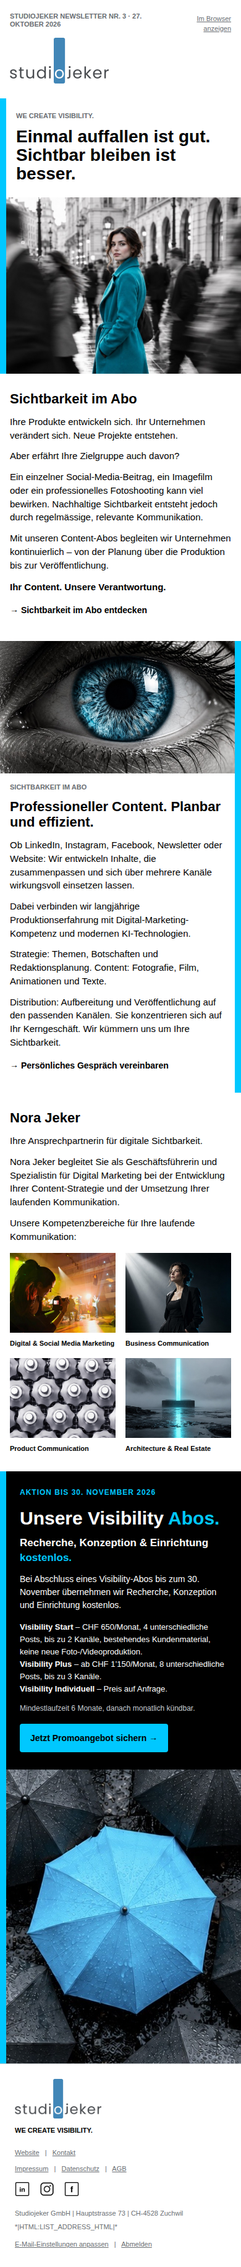
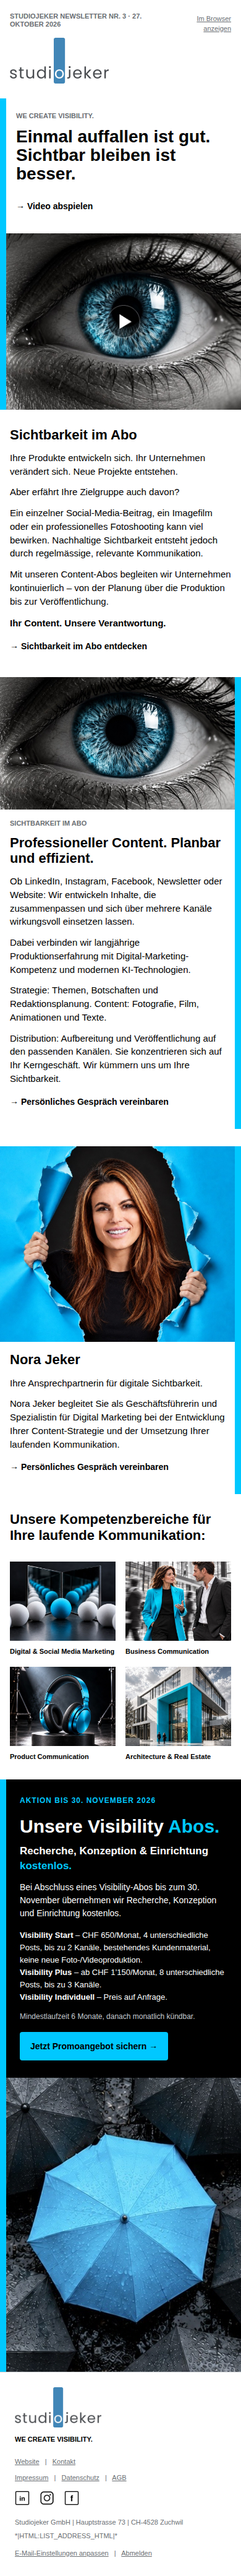
feat(mailchimp): add Nora block, V2 service photos, and hero video link
The approved Visibility promo on main stayed unchanged. Newsletter V3 now uses the V2 Nora portrait as its own contact block, the four V2 area photos, and the V2 play-button hero linked to the live showreel.

diff --git a/mailchimp/studiojeker-newsletter-03-visibility-final.html b/mailchimp/studiojeker-newsletter-03-visibility-final.html
@@ -32,7 +32,7 @@ a:focus-visible {outline:2px solid #000000;outline-offset:3px;}
 <div mc:edit="preheader" style="display:none;max-height:0;max-width:0;overflow:hidden;opacity:0;mso-hide:all;font-size:1px;line-height:1px;">Professioneller Content, regelmässig geplant, produziert und veröffentlicht.</div>
 <center role="article" aria-roledescription="email" lang="de" style="width:100%;background-color:#ffffff;">
 <!--[if mso]><table role="presentation" width="700" align="center" border="0" cellpadding="0" cellspacing="0"><tr><td><![endif]-->
-<table role="presentation" class="sj-container" align="center" width="700" border="0" cellpadding="0" cellspacing="0" style="width:100%;max-width:700px;background-color:#ffffff;"><tr><td class="sj-section" style="padding:20px 20px 24px 20px;background-color:#ffffff;"><table role="presentation" border="0" cellpadding="0" cellspacing="0" width="100%" style="width:100%;border-collapse:collapse;mso-table-lspace:0pt;mso-table-rspace:0pt;" ><tr><td style="font-family:Arial,Helvetica,sans-serif;font-size:11px;line-height:15.95px;color:#6b6f74;"><div mc:edit="meta_left" class="sj-eyebrow" style="font-family:Arial,Helvetica,sans-serif;font-size:11px;line-height:12.65px;font-weight:700;color:#6b6f74;margin:0 0 12px 0;">STUDIOJEKER NEWSLETTER NR. 3 · 27. OKTOBER 2026</div></td><td align="right" style="font-family:Arial,Helvetica,sans-serif;font-size:11px;line-height:15.95px;color:#6b6f74;"><a href="*|ARCHIVE|*" target="_blank" style="color:#6b6f74;text-decoration:underline;">Im Browser anzeigen</a></td></tr><tr><td colspan="2" style="padding:4px 0 0 0;"><a href="https://www.studiojeker.ch/" target="_blank"><img mc:edit="header_logo" src="https://cdn.jsdelivr.net/gh/mjeker99-collab/studiojeker-website@9584d5e/mailchimp/placeholders/logo.png" width="160" height="74" alt="Studiojeker" style="display:block;width:160px;height:74px;border:0;" /></a></td></tr></table></td></tr><tr><td class="sj-bleed" style="padding:0;background-color:#ffffff;"><table role="presentation" border="0" cellpadding="0" cellspacing="0" width="100%" style="width:100%;border-collapse:collapse;mso-table-lspace:0pt;mso-table-rspace:0pt;" ><tr><td class="sj-bar" width="10" bgcolor="#00c8ff" style="width:10px;min-width:10px;max-width:10px;background-color:#00c8ff;font-size:0;line-height:0;">&nbsp;</td><td style="padding:0;"><table role="presentation" border="0" cellpadding="0" cellspacing="0" width="100%" style="width:100%;border-collapse:collapse;mso-table-lspace:0pt;mso-table-rspace:0pt;" ><tr><td class="sj-stack sj-hero-text" width="44%" valign="middle" style="width:44%;padding:22px 20px;vertical-align:middle;"><div mc:edit="hero_eyebrow" class="sj-eyebrow" style="font-family:Arial,Helvetica,sans-serif;font-size:11px;line-height:12.65px;font-weight:700;color:#6b6f74;margin:0 0 12px 0;">WE CREATE VISIBILITY.</div><h1 class="sj-hero-heading" mc:edit="hero_headline" style="font-family:Arial,Helvetica,sans-serif;font-size:32px;line-height:34.56px;font-weight:700;margin:0;color:#000000;">Einmal auffallen ist gut. Sichtbar bleiben ist besser.</h1></td><td class="sj-stack sj-hero-photo" width="56%" valign="middle" style="width:56%;padding:0;vertical-align:middle;"><a href="https://www.studiojeker.ch/content-abo/" target="_blank" rel="noopener noreferrer" aria-label="Sichtbarkeit im Abo bei Studiojeker entdecken" style="display:block;width:100%;border:0;text-decoration:none;font-size:0;line-height:0;"><img class="sj-hero-desktop" mc:edit="hero_image_desktop" src="https://raw.githubusercontent.com/mjeker99-collab/studiojeker-website/3dccfc2291b493b64b9fb19d24feebc08e6b3869/mailchimp/newsletter03/assets/hero-desktop.jpg" width="386" height="290" alt="Frau im blauen Mantel – Sichtbarkeit in Bewegung" style="display:block;width:100%;height:auto;border:0;outline:none;-ms-interpolation-mode:bicubic;" /><!--[if !mso]><!--><img class="sj-hero-mobile" mc:edit="hero_image_mobile" src="https://raw.githubusercontent.com/mjeker99-collab/studiojeker-website/3dccfc2291b493b64b9fb19d24feebc08e6b3869/mailchimp/newsletter03/assets/hero-mobile.jpg" width="386" height="290" alt="Frau im blauen Mantel – Sichtbarkeit in Bewegung" style="display:none;mso-hide:all;width:100%;height:auto;border:0;outline:none;-ms-interpolation-mode:bicubic;" /><!--<![endif]--></a></td></tr></table></td></tr></table></td></tr><tr><td class="sj-section" style="padding:28px 20px 0 20px;background-color:#ffffff;"><h2 class="sj-heading" mc:edit="intro_headline" style="font-family:Arial,Helvetica,sans-serif;font-size:24px;line-height:27.6px;font-weight:700;color:#000000;margin:0 0 14px 0;">Sichtbarkeit im Abo</h2><div mc:edit="intro_body" class="sj-copy" style="font-family:Arial,Helvetica,sans-serif;font-size:15px;line-height:21.75px;font-weight:400;color:#000000;"><p style="font-family:Arial,Helvetica,sans-serif;font-size:15px;line-height:21.75px;font-weight:400;color:#000000;margin:0 0 12px 0;">Ihre Produkte entwickeln sich. Ihr Unternehmen verändert sich. Neue Projekte entstehen.</p><p style="font-family:Arial,Helvetica,sans-serif;font-size:15px;line-height:21.75px;font-weight:400;color:#000000;margin:0 0 12px 0;">Aber erfährt Ihre Zielgruppe auch davon?</p><p style="font-family:Arial,Helvetica,sans-serif;font-size:15px;line-height:21.75px;font-weight:400;color:#000000;margin:0 0 12px 0;">Ein einzelner Social-Media-Beitrag, ein Imagefilm oder ein professionelles Fotoshooting kann viel bewirken. Nachhaltige Sichtbarkeit entsteht jedoch durch regelmässige, relevante Kommunikation.</p><p style="font-family:Arial,Helvetica,sans-serif;font-size:15px;line-height:21.75px;font-weight:400;color:#000000;margin:0 0 0px 0;">Mit unseren Content-Abos begleiten wir Unternehmen kontinuierlich – von der Planung über die Produktion bis zur Veröffentlichung.</p></div><p mc:edit="intro_claim" style="font-family:Arial,Helvetica,sans-serif;font-size:15px;line-height:21.75px;font-weight:400;color:#000000;font-weight:700;margin:14px 0 0 0;">Ihr Content. Unsere Verantwortung.</p><div mc:edit="intro_cta" style="font-family:Arial,Helvetica,sans-serif;font-size:15px;line-height:21.75px;font-weight:400;color:#000000;margin:4px 0 0 0;"><a class="sj-cta" href="https://www.studiojeker.ch/content-abo/" target="_blank" style="font-family:Arial,Helvetica,sans-serif;font-size:14px;line-height:20px;font-weight:700;color:#000000;text-decoration:none;display:inline-block;padding:12px 0;">→ Sichtbarkeit im Abo entdecken</a></div></td></tr><tr><td class="sj-bleed" style="padding:28px 0 0 0;background-color:#ffffff;"><table role="presentation" border="0" cellpadding="0" cellspacing="0" width="100%" style="width:100%;border-collapse:collapse;mso-table-lspace:0pt;mso-table-rspace:0pt;" ><tr><td class="sj-ai-inner" style="padding:22px 20px;"><table role="presentation" border="0" cellpadding="0" cellspacing="0" width="100%" style="width:100%;border-collapse:collapse;mso-table-lspace:0pt;mso-table-rspace:0pt;" ><tr><td class="sj-stack sj-ai-photo" width="48%" valign="top" style="width:48%;vertical-align:top;padding:0 18px 0 0;"><img mc:edit="ai_image" src="https://raw.githubusercontent.com/mjeker99-collab/studiojeker-website/3dccfc2291b493b64b9fb19d24feebc08e6b3869/mailchimp/newsletter03/assets/content-eye.jpg" width="300" height="168" alt="Augenmotiv – Fokus auf kontinuierliche Sichtbarkeit" style="display:block;width:100%;height:auto;border:0;outline:none;-ms-interpolation-mode:bicubic;" /></td><td class="sj-stack sj-ai-text" width="52%" valign="top" style="width:52%;vertical-align:top;padding:0;"><div mc:edit="ai_eyebrow" class="sj-eyebrow" style="font-family:Arial,Helvetica,sans-serif;font-size:11px;line-height:12.65px;font-weight:700;color:#6b6f74;margin:0 0 12px 0;">SICHTBARKEIT IM ABO</div><h2 class="sj-heading" mc:edit="ai_headline" style="font-family:Arial,Helvetica,sans-serif;font-size:24px;line-height:27.6px;font-weight:700;color:#000000;margin:0 0 14px 0;">Professioneller Content. Planbar und effizient.</h2><div class="sj-copy" mc:edit="ai_body_start" style="font-family:Arial,Helvetica,sans-serif;font-size:15px;line-height:21.75px;font-weight:400;color:#000000;"><p style="font-family:Arial,Helvetica,sans-serif;font-size:15px;line-height:21.75px;font-weight:400;color:#000000;margin:0 0 0px 0;">Ob LinkedIn, Instagram, Facebook, Newsletter oder Website: Wir entwickeln Inhalte, die zusammenpassen und sich über mehrere Kanäle wirkungsvoll einsetzen lassen.</p></div></td></tr></table><div class="sj-ai-continuation sj-copy" mc:edit="ai_body_continuation" style="font-family:Arial,Helvetica,sans-serif;font-size:15px;line-height:21.75px;font-weight:400;color:#000000;padding-top:14px;"><p style="font-family:Arial,Helvetica,sans-serif;font-size:15px;line-height:21.75px;font-weight:400;color:#000000;margin:0 0 12px 0;">Dabei verbinden wir langjährige Produktionserfahrung mit Digital-Marketing-Kompetenz und modernen KI-Technologien.</p><p style="font-family:Arial,Helvetica,sans-serif;font-size:15px;line-height:21.75px;font-weight:400;color:#000000;margin:0 0 12px 0;">Strategie: Themen, Botschaften und Redaktionsplanung. Content: Fotografie, Film, Animationen und Texte.</p><p style="font-family:Arial,Helvetica,sans-serif;font-size:15px;line-height:21.75px;font-weight:400;color:#000000;margin:0 0 0px 0;">Distribution: Aufbereitung und Veröffentlichung auf den passenden Kanälen. Sie konzentrieren sich auf Ihr Kerngeschäft. Wir kümmern uns um Ihre Sichtbarkeit.</p></div><div mc:edit="ai_cta" style="font-family:Arial,Helvetica,sans-serif;font-size:15px;line-height:21.75px;font-weight:400;color:#000000;margin:4px 0 0 0;"><a class="sj-cta" href="https://www.studiojeker.ch/contact/" target="_blank" style="font-family:Arial,Helvetica,sans-serif;font-size:14px;line-height:20px;font-weight:700;color:#000000;text-decoration:none;display:inline-block;padding:12px 0;">→ Persönliches Gespräch vereinbaren</a></div></td><td class="sj-bar" width="10" bgcolor="#00c8ff" style="width:10px;min-width:10px;max-width:10px;background-color:#00c8ff;font-size:0;line-height:0;">&nbsp;</td></tr></table></td></tr><tr><td class="sj-section" style="padding:28px 20px 0 20px;background-color:#ffffff;"><h2 class="sj-heading" mc:edit="services_headline" style="font-family:Arial,Helvetica,sans-serif;font-size:24px;line-height:27.6px;font-weight:700;color:#000000;margin:0 0 14px 0;">Nora Jeker</h2><div class="sj-copy" mc:edit="services_body" style="font-family:Arial,Helvetica,sans-serif;font-size:15px;line-height:21.75px;font-weight:400;color:#000000;"><p style="font-family:Arial,Helvetica,sans-serif;font-size:15px;line-height:21.75px;font-weight:400;color:#000000;margin:0 0 12px 0;">Ihre Ansprechpartnerin für digitale Sichtbarkeit.</p><p style="font-family:Arial,Helvetica,sans-serif;font-size:15px;line-height:21.75px;font-weight:400;color:#000000;margin:0 0 12px 0;">Nora Jeker begleitet Sie als Geschäftsführerin und Spezialistin für Digital Marketing bei der Entwicklung Ihrer Content-Strategie und der Umsetzung Ihrer laufenden Kommunikation.</p><p style="font-family:Arial,Helvetica,sans-serif;font-size:15px;line-height:21.75px;font-weight:400;color:#000000;margin:0 0 0px 0;">Unsere Kompetenzbereiche für Ihre laufende Kommunikation:</p></div></td></tr><tr><td class="sj-cards-section" style="padding:16px 12px 0 12px;background-color:#ffffff;"><table role="presentation" border="0" cellpadding="0" cellspacing="0" width="100%" style="width:100%;border-collapse:collapse;mso-table-lspace:0pt;mso-table-rspace:0pt;" class="sj-grid"><tr><td class="sj-pair" width="50%" valign="top" style="width:50%;vertical-align:top;"><table role="presentation" border="0" cellpadding="0" cellspacing="0" width="100%" style="width:100%;border-collapse:collapse;mso-table-lspace:0pt;mso-table-rspace:0pt;" ><tr><td class="sj-card" width="50%" valign="top" style="width:50%;padding:0 8px;vertical-align:top;"><table role="presentation" border="0" cellpadding="0" cellspacing="0" width="100%" style="width:100%;border-collapse:collapse;mso-table-lspace:0pt;mso-table-rspace:0pt;" ><tr><td><a href="https://www.studiojeker.ch/services/digital-marketing/" target="_blank"><img mc:edit="service_digital_image" src="https://raw.githubusercontent.com/mjeker99-collab/studiojeker-website/gh-pages/v7-corrections/assets/digital-concert-photographer.jpg" width="151" height="113" alt="Digital &amp; Social Media Marketing" style="display:block;width:100%;height:auto;border:0;outline:none;-ms-interpolation-mode:bicubic;" /></a></td></tr><tr><td class="sj-card-caption" mc:edit="service_digital_title" style="font-family:Arial,Helvetica,sans-serif;font-size:11px;line-height:15.95px;font-weight:700;padding:10px 0 0 0;color:#000000;"><a href="https://www.studiojeker.ch/services/digital-marketing/" target="_blank" style="color:#000000;text-decoration:none;">Digital &amp; Social Media Marketing</a></td></tr></table></td><td class="sj-card" width="50%" valign="top" style="width:50%;padding:0 8px;vertical-align:top;"><table role="presentation" border="0" cellpadding="0" cellspacing="0" width="100%" style="width:100%;border-collapse:collapse;mso-table-lspace:0pt;mso-table-rspace:0pt;" ><tr><td><a href="https://www.studiojeker.ch/services/business-communication/" target="_blank"><img mc:edit="service_business_image" src="https://raw.githubusercontent.com/mjeker99-collab/studiojeker-website/3dccfc2291b493b64b9fb19d24feebc08e6b3869/mailchimp/newsletter03/assets/service-business.jpg" width="151" height="113" alt="Business Communication – Frau im schwarzen Anzug" style="display:block;width:100%;height:auto;border:0;outline:none;-ms-interpolation-mode:bicubic;" /></a></td></tr><tr><td class="sj-card-caption" mc:edit="service_business_title" style="font-family:Arial,Helvetica,sans-serif;font-size:11px;line-height:15.95px;font-weight:700;padding:10px 0 0 0;color:#000000;"><a href="https://www.studiojeker.ch/services/business-communication/" target="_blank" style="color:#000000;text-decoration:none;">Business Communication</a></td></tr></table></td></tr></table></td><td class="sj-pair" width="50%" valign="top" style="width:50%;vertical-align:top;"><table role="presentation" border="0" cellpadding="0" cellspacing="0" width="100%" style="width:100%;border-collapse:collapse;mso-table-lspace:0pt;mso-table-rspace:0pt;" ><tr><td class="sj-card" width="50%" valign="top" style="width:50%;padding:0 8px;vertical-align:top;"><table role="presentation" border="0" cellpadding="0" cellspacing="0" width="100%" style="width:100%;border-collapse:collapse;mso-table-lspace:0pt;mso-table-rspace:0pt;" ><tr><td><a href="https://www.studiojeker.ch/services/product-communication/" target="_blank"><img mc:edit="service_product_image" src="https://raw.githubusercontent.com/mjeker99-collab/studiojeker-website/92009bd630e7242e455ce2de762e9ca87a8d0b97/mailchimp/assets/service-product.jpg" width="151" height="113" alt="Studiojeker Produktfotografie – Metallbauteile" style="display:block;width:100%;height:auto;border:0;outline:none;-ms-interpolation-mode:bicubic;" /></a></td></tr><tr><td class="sj-card-caption" mc:edit="service_product_title" style="font-family:Arial,Helvetica,sans-serif;font-size:11px;line-height:15.95px;font-weight:700;padding:10px 0 0 0;color:#000000;"><a href="https://www.studiojeker.ch/services/product-communication/" target="_blank" style="color:#000000;text-decoration:none;">Product Communication</a></td></tr></table></td><td class="sj-card" width="50%" valign="top" style="width:50%;padding:0 8px;vertical-align:top;"><table role="presentation" border="0" cellpadding="0" cellspacing="0" width="100%" style="width:100%;border-collapse:collapse;mso-table-lspace:0pt;mso-table-rspace:0pt;" ><tr><td><a href="https://www.studiojeker.ch/services/architecture/" target="_blank"><img mc:edit="service_architecture_image" src="https://raw.githubusercontent.com/mjeker99-collab/studiojeker-website/3dccfc2291b493b64b9fb19d24feebc08e6b3869/mailchimp/newsletter03/assets/service-architecture.jpg" width="151" height="113" alt="Visuelles Cyan-Motiv in einer Berglandschaft" style="display:block;width:100%;height:auto;border:0;outline:none;-ms-interpolation-mode:bicubic;" /></a></td></tr><tr><td class="sj-card-caption" mc:edit="service_architecture_title" style="font-family:Arial,Helvetica,sans-serif;font-size:11px;line-height:15.95px;font-weight:700;padding:10px 0 0 0;color:#000000;"><a href="https://www.studiojeker.ch/services/architecture/" target="_blank" style="color:#000000;text-decoration:none;">Architecture &amp; Real Estate</a></td></tr></table></td></tr></table></td></tr></table></td></tr><tr><td style="padding:28px 0 0 0;background-color:#ffffff;">
+<table role="presentation" class="sj-container" align="center" width="700" border="0" cellpadding="0" cellspacing="0" style="width:100%;max-width:700px;background-color:#ffffff;"><tr><td class="sj-section" style="padding:20px 20px 24px 20px;background-color:#ffffff;"><table role="presentation" border="0" cellpadding="0" cellspacing="0" width="100%" style="width:100%;border-collapse:collapse;mso-table-lspace:0pt;mso-table-rspace:0pt;" ><tr><td style="font-family:Arial,Helvetica,sans-serif;font-size:11px;line-height:15.95px;color:#6b6f74;"><div mc:edit="meta_left" class="sj-eyebrow" style="font-family:Arial,Helvetica,sans-serif;font-size:11px;line-height:12.65px;font-weight:700;color:#6b6f74;margin:0 0 12px 0;">STUDIOJEKER NEWSLETTER NR. 3 · 27. OKTOBER 2026</div></td><td align="right" style="font-family:Arial,Helvetica,sans-serif;font-size:11px;line-height:15.95px;color:#6b6f74;"><a href="*|ARCHIVE|*" target="_blank" style="color:#6b6f74;text-decoration:underline;">Im Browser anzeigen</a></td></tr><tr><td colspan="2" style="padding:4px 0 0 0;"><a href="https://www.studiojeker.ch/" target="_blank"><img mc:edit="header_logo" src="https://cdn.jsdelivr.net/gh/mjeker99-collab/studiojeker-website@9584d5e/mailchimp/placeholders/logo.png" width="160" height="74" alt="Studiojeker" style="display:block;width:160px;height:74px;border:0;" /></a></td></tr></table></td></tr><tr><td class="sj-bleed" style="padding:0;background-color:#ffffff;"><table role="presentation" border="0" cellpadding="0" cellspacing="0" width="100%" style="width:100%;border-collapse:collapse;mso-table-lspace:0pt;mso-table-rspace:0pt;" ><tr><td class="sj-bar" width="10" bgcolor="#00c8ff" style="width:10px;min-width:10px;max-width:10px;background-color:#00c8ff;font-size:0;line-height:0;">&nbsp;</td><td style="padding:0;"><table role="presentation" border="0" cellpadding="0" cellspacing="0" width="100%" style="width:100%;border-collapse:collapse;mso-table-lspace:0pt;mso-table-rspace:0pt;" ><tr><td class="sj-stack sj-hero-text" width="44%" valign="middle" style="width:44%;padding:22px 20px;vertical-align:middle;"><div mc:edit="hero_eyebrow" class="sj-eyebrow" style="font-family:Arial,Helvetica,sans-serif;font-size:11px;line-height:12.65px;font-weight:700;color:#6b6f74;margin:0 0 12px 0;">WE CREATE VISIBILITY.</div><h1 class="sj-hero-heading" mc:edit="hero_headline" style="font-family:Arial,Helvetica,sans-serif;font-size:32px;line-height:34.56px;font-weight:700;margin:0;color:#000000;">Einmal auffallen ist gut. Sichtbar bleiben ist besser.</h1><div mc:edit="hero_video_cta" style="margin:14px 0 0 0;"><a class="sj-cta" href="https://www.studiojeker.ch/#home-showreel-title" target="_blank" style="font-family:Arial,Helvetica,sans-serif;font-size:14px;line-height:20px;font-weight:700;color:#000000;text-decoration:none;display:inline-block;padding:12px 0;">→ Video abspielen</a></div></td><td class="sj-stack sj-hero-photo" width="56%" valign="middle" style="width:56%;padding:0;vertical-align:middle;"><a href="https://www.studiojeker.ch/#home-showreel-title" target="_blank" rel="noopener noreferrer" aria-label="Studiojeker Showreel auf der Startseite ansehen" style="display:block;width:100%;border:0;text-decoration:none;font-size:0;line-height:0;"><img class="sj-hero-desktop" mc:edit="hero_image_desktop" src="https://raw.githubusercontent.com/mjeker99-collab/studiojeker-website/476a19450a7ae47b1c067d1faed3b8b8eb7c2a48/mailchimp/visibility-update/assets/hero-desktop.jpg" width="386" height="290" alt="Studiojeker Showreel – Auge" style="display:block;width:100%;height:auto;border:0;outline:none;-ms-interpolation-mode:bicubic;" /><!--[if !mso]><!--><img class="sj-hero-mobile" mc:edit="hero_image_mobile" src="https://raw.githubusercontent.com/mjeker99-collab/studiojeker-website/476a19450a7ae47b1c067d1faed3b8b8eb7c2a48/mailchimp/visibility-update/assets/hero-mobile.jpg" width="386" height="290" alt="Studiojeker Showreel – Auge" style="display:none;mso-hide:all;width:100%;height:auto;border:0;outline:none;-ms-interpolation-mode:bicubic;" /><!--<![endif]--></a></td></tr></table></td></tr></table></td></tr><tr><td class="sj-section" style="padding:28px 20px 0 20px;background-color:#ffffff;"><h2 class="sj-heading" mc:edit="intro_headline" style="font-family:Arial,Helvetica,sans-serif;font-size:24px;line-height:27.6px;font-weight:700;color:#000000;margin:0 0 14px 0;">Sichtbarkeit im Abo</h2><div mc:edit="intro_body" class="sj-copy" style="font-family:Arial,Helvetica,sans-serif;font-size:15px;line-height:21.75px;font-weight:400;color:#000000;"><p style="font-family:Arial,Helvetica,sans-serif;font-size:15px;line-height:21.75px;font-weight:400;color:#000000;margin:0 0 12px 0;">Ihre Produkte entwickeln sich. Ihr Unternehmen verändert sich. Neue Projekte entstehen.</p><p style="font-family:Arial,Helvetica,sans-serif;font-size:15px;line-height:21.75px;font-weight:400;color:#000000;margin:0 0 12px 0;">Aber erfährt Ihre Zielgruppe auch davon?</p><p style="font-family:Arial,Helvetica,sans-serif;font-size:15px;line-height:21.75px;font-weight:400;color:#000000;margin:0 0 12px 0;">Ein einzelner Social-Media-Beitrag, ein Imagefilm oder ein professionelles Fotoshooting kann viel bewirken. Nachhaltige Sichtbarkeit entsteht jedoch durch regelmässige, relevante Kommunikation.</p><p style="font-family:Arial,Helvetica,sans-serif;font-size:15px;line-height:21.75px;font-weight:400;color:#000000;margin:0 0 0px 0;">Mit unseren Content-Abos begleiten wir Unternehmen kontinuierlich – von der Planung über die Produktion bis zur Veröffentlichung.</p></div><p mc:edit="intro_claim" style="font-family:Arial,Helvetica,sans-serif;font-size:15px;line-height:21.75px;font-weight:400;color:#000000;font-weight:700;margin:14px 0 0 0;">Ihr Content. Unsere Verantwortung.</p><div mc:edit="intro_cta" style="font-family:Arial,Helvetica,sans-serif;font-size:15px;line-height:21.75px;font-weight:400;color:#000000;margin:4px 0 0 0;"><a class="sj-cta" href="https://www.studiojeker.ch/content-abo/" target="_blank" style="font-family:Arial,Helvetica,sans-serif;font-size:14px;line-height:20px;font-weight:700;color:#000000;text-decoration:none;display:inline-block;padding:12px 0;">→ Sichtbarkeit im Abo entdecken</a></div></td></tr><tr><td class="sj-bleed" style="padding:28px 0 0 0;background-color:#ffffff;"><table role="presentation" border="0" cellpadding="0" cellspacing="0" width="100%" style="width:100%;border-collapse:collapse;mso-table-lspace:0pt;mso-table-rspace:0pt;" ><tr><td class="sj-ai-inner" style="padding:22px 20px;"><table role="presentation" border="0" cellpadding="0" cellspacing="0" width="100%" style="width:100%;border-collapse:collapse;mso-table-lspace:0pt;mso-table-rspace:0pt;" ><tr><td class="sj-stack sj-ai-photo" width="48%" valign="top" style="width:48%;vertical-align:top;padding:0 18px 0 0;"><img mc:edit="ai_image" src="https://raw.githubusercontent.com/mjeker99-collab/studiojeker-website/3dccfc2291b493b64b9fb19d24feebc08e6b3869/mailchimp/newsletter03/assets/content-eye.jpg" width="300" height="168" alt="Augenmotiv – Fokus auf kontinuierliche Sichtbarkeit" style="display:block;width:100%;height:auto;border:0;outline:none;-ms-interpolation-mode:bicubic;" /></td><td class="sj-stack sj-ai-text" width="52%" valign="top" style="width:52%;vertical-align:top;padding:0;"><div mc:edit="ai_eyebrow" class="sj-eyebrow" style="font-family:Arial,Helvetica,sans-serif;font-size:11px;line-height:12.65px;font-weight:700;color:#6b6f74;margin:0 0 12px 0;">SICHTBARKEIT IM ABO</div><h2 class="sj-heading" mc:edit="ai_headline" style="font-family:Arial,Helvetica,sans-serif;font-size:24px;line-height:27.6px;font-weight:700;color:#000000;margin:0 0 14px 0;">Professioneller Content. Planbar und effizient.</h2><div class="sj-copy" mc:edit="ai_body_start" style="font-family:Arial,Helvetica,sans-serif;font-size:15px;line-height:21.75px;font-weight:400;color:#000000;"><p style="font-family:Arial,Helvetica,sans-serif;font-size:15px;line-height:21.75px;font-weight:400;color:#000000;margin:0 0 0px 0;">Ob LinkedIn, Instagram, Facebook, Newsletter oder Website: Wir entwickeln Inhalte, die zusammenpassen und sich über mehrere Kanäle wirkungsvoll einsetzen lassen.</p></div></td></tr></table><div class="sj-ai-continuation sj-copy" mc:edit="ai_body_continuation" style="font-family:Arial,Helvetica,sans-serif;font-size:15px;line-height:21.75px;font-weight:400;color:#000000;padding-top:14px;"><p style="font-family:Arial,Helvetica,sans-serif;font-size:15px;line-height:21.75px;font-weight:400;color:#000000;margin:0 0 12px 0;">Dabei verbinden wir langjährige Produktionserfahrung mit Digital-Marketing-Kompetenz und modernen KI-Technologien.</p><p style="font-family:Arial,Helvetica,sans-serif;font-size:15px;line-height:21.75px;font-weight:400;color:#000000;margin:0 0 12px 0;">Strategie: Themen, Botschaften und Redaktionsplanung. Content: Fotografie, Film, Animationen und Texte.</p><p style="font-family:Arial,Helvetica,sans-serif;font-size:15px;line-height:21.75px;font-weight:400;color:#000000;margin:0 0 0px 0;">Distribution: Aufbereitung und Veröffentlichung auf den passenden Kanälen. Sie konzentrieren sich auf Ihr Kerngeschäft. Wir kümmern uns um Ihre Sichtbarkeit.</p></div><div mc:edit="ai_cta" style="font-family:Arial,Helvetica,sans-serif;font-size:15px;line-height:21.75px;font-weight:400;color:#000000;margin:4px 0 0 0;"><a class="sj-cta" href="https://www.studiojeker.ch/contact/" target="_blank" style="font-family:Arial,Helvetica,sans-serif;font-size:14px;line-height:20px;font-weight:700;color:#000000;text-decoration:none;display:inline-block;padding:12px 0;">→ Persönliches Gespräch vereinbaren</a></div></td><td class="sj-bar" width="10" bgcolor="#00c8ff" style="width:10px;min-width:10px;max-width:10px;background-color:#00c8ff;font-size:0;line-height:0;">&nbsp;</td></tr></table></td></tr><tr><td class="sj-bleed" style="padding:28px 0 0 0;background-color:#ffffff;"><table role="presentation" border="0" cellpadding="0" cellspacing="0" width="100%" style="width:100%;border-collapse:collapse;mso-table-lspace:0pt;mso-table-rspace:0pt;" ><tr><td class="sj-ai-inner" style="padding:22px 20px;"><table role="presentation" border="0" cellpadding="0" cellspacing="0" width="100%" style="width:100%;border-collapse:collapse;mso-table-lspace:0pt;mso-table-rspace:0pt;" ><tr><td class="sj-stack sj-ai-photo" width="48%" valign="top" style="width:48%;vertical-align:top;padding:0 18px 0 0;"><img mc:edit="contact_image" src="https://raw.githubusercontent.com/mjeker99-collab/studiojeker-website/7361ce0ff0f8d302c29c23ac7cc3ef5a15a6fbc4/mailchimp/visibility-update/assets/nora-cyan-tall.jpg" width="300" height="250" alt="Nora Jeker vor Cyan-Papier" style="display:block;width:100%;height:auto;border:0;outline:none;-ms-interpolation-mode:bicubic;" /></td><td class="sj-stack sj-ai-text" width="52%" valign="top" style="width:52%;vertical-align:top;padding:0;"><h2 class="sj-heading" mc:edit="contact_headline" style="font-family:Arial,Helvetica,sans-serif;font-size:24px;line-height:27.6px;font-weight:700;color:#000000;margin:0 0 14px 0;">Nora Jeker</h2><div class="sj-copy" mc:edit="contact_body" style="font-family:Arial,Helvetica,sans-serif;font-size:15px;line-height:21.75px;font-weight:400;color:#000000;"><p style="font-family:Arial,Helvetica,sans-serif;font-size:15px;line-height:21.75px;font-weight:400;color:#000000;margin:0 0 12px 0;">Ihre Ansprechpartnerin für digitale Sichtbarkeit.</p><p style="font-family:Arial,Helvetica,sans-serif;font-size:15px;line-height:21.75px;font-weight:400;color:#000000;margin:0 0 0px 0;">Nora Jeker begleitet Sie als Geschäftsführerin und Spezialistin für Digital Marketing bei der Entwicklung Ihrer Content-Strategie und der Umsetzung Ihrer laufenden Kommunikation.</p></div><div mc:edit="contact_cta" style="font-family:Arial,Helvetica,sans-serif;font-size:15px;line-height:21.75px;font-weight:400;color:#000000;margin:4px 0 0 0;"><a class="sj-cta" href="https://www.studiojeker.ch/contact/" target="_blank" style="font-family:Arial,Helvetica,sans-serif;font-size:14px;line-height:20px;font-weight:700;color:#000000;text-decoration:none;display:inline-block;padding:12px 0;">→ Persönliches Gespräch vereinbaren</a></div></td></tr></table></td><td class="sj-bar" width="10" bgcolor="#00c8ff" style="width:10px;min-width:10px;max-width:10px;background-color:#00c8ff;font-size:0;line-height:0;">&nbsp;</td></tr></table></td></tr><tr><td class="sj-section" style="padding:28px 20px 0 20px;background-color:#ffffff;"><h2 class="sj-heading" mc:edit="services_headline" style="font-family:Arial,Helvetica,sans-serif;font-size:24px;line-height:27.6px;font-weight:700;color:#000000;margin:0 0 14px 0;">Unsere Kompetenzbereiche für Ihre laufende Kommunikation:</h2><div class="sj-copy" mc:edit="services_body" style="font-family:Arial,Helvetica,sans-serif;font-size:15px;line-height:21.75px;font-weight:400;color:#000000;"></div></td></tr><tr><td class="sj-cards-section" style="padding:16px 12px 0 12px;background-color:#ffffff;"><table role="presentation" border="0" cellpadding="0" cellspacing="0" width="100%" style="width:100%;border-collapse:collapse;mso-table-lspace:0pt;mso-table-rspace:0pt;" class="sj-grid"><tr><td class="sj-pair" width="50%" valign="top" style="width:50%;vertical-align:top;"><table role="presentation" border="0" cellpadding="0" cellspacing="0" width="100%" style="width:100%;border-collapse:collapse;mso-table-lspace:0pt;mso-table-rspace:0pt;" ><tr><td class="sj-card" width="50%" valign="top" style="width:50%;padding:0 8px;vertical-align:top;"><table role="presentation" border="0" cellpadding="0" cellspacing="0" width="100%" style="width:100%;border-collapse:collapse;mso-table-lspace:0pt;mso-table-rspace:0pt;" ><tr><td><a href="https://www.studiojeker.ch/services/digital-marketing/" target="_blank"><img mc:edit="service_digital_image" src="https://raw.githubusercontent.com/mjeker99-collab/studiojeker-website/476a19450a7ae47b1c067d1faed3b8b8eb7c2a48/mailchimp/visibility-update/assets/digital.jpg" width="151" height="113" alt="Blaue und weisse Kugeln – Content und Digital Marketing" style="display:block;width:100%;height:auto;border:0;outline:none;-ms-interpolation-mode:bicubic;" /></a></td></tr><tr><td class="sj-card-caption" mc:edit="service_digital_title" style="font-family:Arial,Helvetica,sans-serif;font-size:11px;line-height:15.95px;font-weight:700;padding:10px 0 0 0;color:#000000;"><a href="https://www.studiojeker.ch/services/digital-marketing/" target="_blank" style="color:#000000;text-decoration:none;">Digital &amp; Social Media Marketing</a></td></tr></table></td><td class="sj-card" width="50%" valign="top" style="width:50%;padding:0 8px;vertical-align:top;"><table role="presentation" border="0" cellpadding="0" cellspacing="0" width="100%" style="width:100%;border-collapse:collapse;mso-table-lspace:0pt;mso-table-rspace:0pt;" ><tr><td><a href="https://www.studiojeker.ch/services/business-communication/" target="_blank"><img mc:edit="service_business_image" src="https://raw.githubusercontent.com/mjeker99-collab/studiojeker-website/476a19450a7ae47b1c067d1faed3b8b8eb7c2a48/mailchimp/visibility-update/assets/business.jpg" width="151" height="113" alt="Business-Szene mit Unternehmerin im blauen Blazer" style="display:block;width:100%;height:auto;border:0;outline:none;-ms-interpolation-mode:bicubic;" /></a></td></tr><tr><td class="sj-card-caption" mc:edit="service_business_title" style="font-family:Arial,Helvetica,sans-serif;font-size:11px;line-height:15.95px;font-weight:700;padding:10px 0 0 0;color:#000000;"><a href="https://www.studiojeker.ch/services/business-communication/" target="_blank" style="color:#000000;text-decoration:none;">Business Communication</a></td></tr></table></td></tr></table></td><td class="sj-pair" width="50%" valign="top" style="width:50%;vertical-align:top;"><table role="presentation" border="0" cellpadding="0" cellspacing="0" width="100%" style="width:100%;border-collapse:collapse;mso-table-lspace:0pt;mso-table-rspace:0pt;" ><tr><td class="sj-card" width="50%" valign="top" style="width:50%;padding:0 8px;vertical-align:top;"><table role="presentation" border="0" cellpadding="0" cellspacing="0" width="100%" style="width:100%;border-collapse:collapse;mso-table-lspace:0pt;mso-table-rspace:0pt;" ><tr><td><a href="https://www.studiojeker.ch/services/product-communication/" target="_blank"><img mc:edit="service_product_image" src="https://raw.githubusercontent.com/mjeker99-collab/studiojeker-website/476a19450a7ae47b1c067d1faed3b8b8eb7c2a48/mailchimp/visibility-update/assets/product.jpg" width="151" height="113" alt="Blaue Kopfhörer – Product Communication" style="display:block;width:100%;height:auto;border:0;outline:none;-ms-interpolation-mode:bicubic;" /></a></td></tr><tr><td class="sj-card-caption" mc:edit="service_product_title" style="font-family:Arial,Helvetica,sans-serif;font-size:11px;line-height:15.95px;font-weight:700;padding:10px 0 0 0;color:#000000;"><a href="https://www.studiojeker.ch/services/product-communication/" target="_blank" style="color:#000000;text-decoration:none;">Product Communication</a></td></tr></table></td><td class="sj-card" width="50%" valign="top" style="width:50%;padding:0 8px;vertical-align:top;"><table role="presentation" border="0" cellpadding="0" cellspacing="0" width="100%" style="width:100%;border-collapse:collapse;mso-table-lspace:0pt;mso-table-rspace:0pt;" ><tr><td><a href="https://www.studiojeker.ch/services/architecture/" target="_blank"><img mc:edit="service_architecture_image" src="https://raw.githubusercontent.com/mjeker99-collab/studiojeker-website/476a19450a7ae47b1c067d1faed3b8b8eb7c2a48/mailchimp/visibility-update/assets/architecture.jpg" width="151" height="113" alt="Gebäude mit blauer architektonischer Rahmung" style="display:block;width:100%;height:auto;border:0;outline:none;-ms-interpolation-mode:bicubic;" /></a></td></tr><tr><td class="sj-card-caption" mc:edit="service_architecture_title" style="font-family:Arial,Helvetica,sans-serif;font-size:11px;line-height:15.95px;font-weight:700;padding:10px 0 0 0;color:#000000;"><a href="https://www.studiojeker.ch/services/architecture/" target="_blank" style="color:#000000;text-decoration:none;">Architecture &amp; Real Estate</a></td></tr></table></td></tr></table></td></tr></table></td></tr><tr><td style="padding:28px 0 0 0;background-color:#ffffff;">
 <table role="presentation" width="100%" border="0" cellspacing="0" cellpadding="0" style="width:100%;border-collapse:collapse;background:#000000;">
 <tr><td bgcolor="#00c8ff" width="10" style="width:10px;background:#00c8ff;font-size:0;line-height:0;">&nbsp;</td>
 <td class="sj-stack" width="54%" valign="middle" style="width:54%;padding:26px 20px 28px 22px;vertical-align:middle;">

diff --git a/mailchimp/newsletter03/FINAL_REVIEW.md b/mailchimp/newsletter03/FINAL_REVIEW.md
@@ -1,8 +1,9 @@
 # Studiojeker Newsletter V3 – Visibility Final
 
 Versanddatei: `mailchimp/studiojeker-newsletter-03-visibility-final.html`  
-Basis: PR #254 (`studiojeker-newsletter-03-visibility-final-20261027.html`)  
 Stand: 27. Oktober 2026
+
+Auf `main` (PR #260) waren der freigegebene Promo-Block und das Regenschirmfoto bereits enthalten. Diese Runde ergänzt nur die drei noch fehlenden Punkte aus dem V3-Auftrag. Promo-HTML, Footer und Mailchimp-Merge-Tags sind unverändert.
 
 ## Vorschauen
 
@@ -12,7 +13,35 @@ Stand: 27. Oktober 2026
 | 390 px (Mobile) | [final-mobile.png](previews/final-mobile.png) |
 | 320 px (kleines Smartphone) | [final-320.png](previews/final-320.png) |
 
-## Promo-Bereich (freigegeben)
+## Nora – separater Ansprechpartnerinnen-Block
+
+- Eigenes Zwei-Spalten-Modul vor den vier Kompetenzbereichen, analog zum Porträtblock in Newsletter V2.
+- Bildadresse exakt aus V2: `https://raw.githubusercontent.com/mjeker99-collab/studiojeker-website/7361ce0ff0f8d302c29c23ac7cc3ef5a15a6fbc4/mailchimp/visibility-update/assets/nora-cyan-tall.jpg`
+- Alt-Text: Nora Jeker vor Cyan-Papier.
+- Bestehender V3-Text bleibt: Nora Jeker, Ihre Ansprechpartnerin für digitale Sichtbarkeit, plus der Absatz zur Content-Strategie.
+- CTA: Persönliches Gespräch vereinbaren → `https://www.studiojeker.ch/contact/`
+- Das Porträt steht nicht im Promo-Block.
+
+## Vier Bereichsbilder
+
+Quellen und Linkziele entsprechen der finalen Newsletter-V2-Datei `mailchimp/studiojeker-newsletter-02-visibility.html`:
+
+| Bereich | Bild | Ziel |
+| --- | --- | --- |
+| Digital & Social Media Marketing | `…/476a19450a7ae47b1c067d1faed3b8b8eb7c2a48/mailchimp/visibility-update/assets/digital.jpg` | `/services/digital-marketing/` |
+| Business Communication | `…/business.jpg` | `/services/business-communication/` |
+| Product Communication | `…/product.jpg` | `/services/product-communication/` |
+| Architecture & Real Estate | `…/architecture.jpg` | `/services/architecture/` |
+
+Keine neu generierten Bilder.
+
+## Hero-Video
+
+- Playbutton ist in den V2-Hero-Bildern enthalten (`hero-desktop.jpg`, `hero-mobile.jpg`, Commit `476a1945`).
+- Bildfläche und Textlink «Video abspielen» führen auf `https://www.studiojeker.ch/#home-showreel-title`.
+- Der Anker `home-showreel-title` ist auf der Live-Startseite vorhanden. Keine neue Video-URL.
+
+## Promo-Bereich (freigegeben, unverändert)
 
 - Headline: Unsere Visibility Abos.
 - Aktionshinweis: AKTION BIS 30. NOVEMBER 2026
@@ -23,41 +52,33 @@ Stand: 27. Oktober 2026
 - Bedingungen: Mindestlaufzeit 6 Monate, danach monatlich kündbar.
 - CTA: Jetzt Promoangebot sichern → `https://www.studiojeker.ch/content-abo/`
 - Kein Gratismonat / kein kostenloser erster Abo-Monat.
+- Regenschirmfoto: `https://raw.githubusercontent.com/mjeker99-collab/studiojeker-website/eaf48c8a43824025396c65bcd01ae8c2b4d2c34b/mailchimp/newsletter03/assets/umbrella-cyan.jpg`
+- Farben: Schwarz `#000000`, Weiss `#FFFFFF`, Cyan `#00c8ff`
 
-## Regenschirmfoto
+## Layout und geschützte Bereiche
 
[1 lines of base64/hex data omitted]
-- Mechanischer 4:5-Zuschnitt ohne Farbänderung: `assets/umbrella-cyan.jpg` (640×800).
-- Öffentliche commitgebundene URL:  
-  `https://raw.githubusercontent.com/mjeker99-collab/studiojeker-website/eaf48c8a43824025396c65bcd01ae8c2b4d2c34b/mailchimp/newsletter03/assets/umbrella-cyan.jpg`
-- Google-Drive-Thumbnail vollständig entfernt.
-- Nora-Porträt erscheint nicht im Promo-Bereich.
-
-## Layout
-
-- Schwarz `#000000`, Weiss `#FFFFFF`, Cyan `#00c8ff`
 - Arial/Helvetica, max. 700 px
-- Text links, Regenschirmfoto rechts (Mobile gestapelt)
-- Keine Textüberlagerung auf Bildern
-- Mailchimp-Merge-Tags (`ARCHIVE`, `HTML:LIST_ADDRESS_HTML`, `UPDATE_PROFILE`, `UNSUB`), Footer, Logo und bestehende Links erhalten
+- Mailchimp-Merge-Tags (`ARCHIVE`, `HTML:LIST_ADDRESS_HTML`, `UPDATE_PROFILE`, `UNSUB`), Footer, Logo und Abmeldelinks unverändert
+- Intro, Content-Abschnitt mit Augenmotiv und Promo-Block unverändert
 
 ## Prüfungen
 
-Chromium/Playwright bei 700 / 390 / 320 px (`responsive-final-checks.json`):
+Chromium bei 700 / 390 / 320 px (`responsive-final-checks.json`):
 
-- Alle 13 Bilder geladen, inkl. Regenschirmfoto
-- Kein horizontaler Überlauf
-- Kein Nora-Motiv im Promo-Block
-- CTA und Promo-Texte lesbar
+- 14/14 Bilder geladen, inklusive Nora, Playbutton-Hero, vier V2-Bereichsbilder und Regenschirm
+- Kein horizontaler Überlauf (`scrollWidth` gleich Viewport)
+- Hero-Bild und «Video abspielen» zeigen auf den Showreel-Anker
+- Nora-Porträt ausserhalb des Promo-Blocks
+- Auf 700 px: Desktop-Hero sichtbar, Mobile-Hero ausgeblendet. Ab 480 px umgekehrt
 
-URL-Prüfung (`url-final-checks.json`): 26/26 Ziele erreichbar (HTTP 200), inkl. `/content-abo/`, Kontakt, Service-Seiten, Social-Icons und sämtliche Bildquellen.
+URL-Prüfung (`url-final-checks.json`): 28/28 Ziele HTTP 200, inklusive Showreel-Anker, Nora-Bild, V2-Bereichsbilder, Regenschirm, `/content-abo/` und Kontakt.
 
 ## Versand
 
-Datei ist für den direkten Mailchimp-Import (Code your own / Import HTML) vorbereitet.  
-Kein Versand und keine Mailchimp-Kampagne ohne ausdrückliche Freigabe.
+Die Datei ist für den direkten Mailchimp-Import (Code your own / Import HTML) vorbereitet.  
+Kein Versand und keine Mailchimp-Kampagne ohne ausdrückliche Freigabe. Kein Produktionsdeployment in dieser Runde.
 
 ## Bekannte Grenzen
 
-- Keine Litmus-/Email-on-Acid-Clientprüfung und keine echte Mailchimp-Testsendung in dieser Runde.
-- Merge-Tag-Auflösung und Abmeldelink erfordern eine Mailchimp-Testmail vor dem Live-Versand.
+- Keine Litmus-/Email-on-Acid-Clientprüfung und keine echte Mailchimp-Testsendung.
+- Merge-Tags und der Abmeldelink lösen sich erst in einer Mailchimp-Testmail auf. Das ist der verbleibende Versandblocker vor einem Live-Versand.
